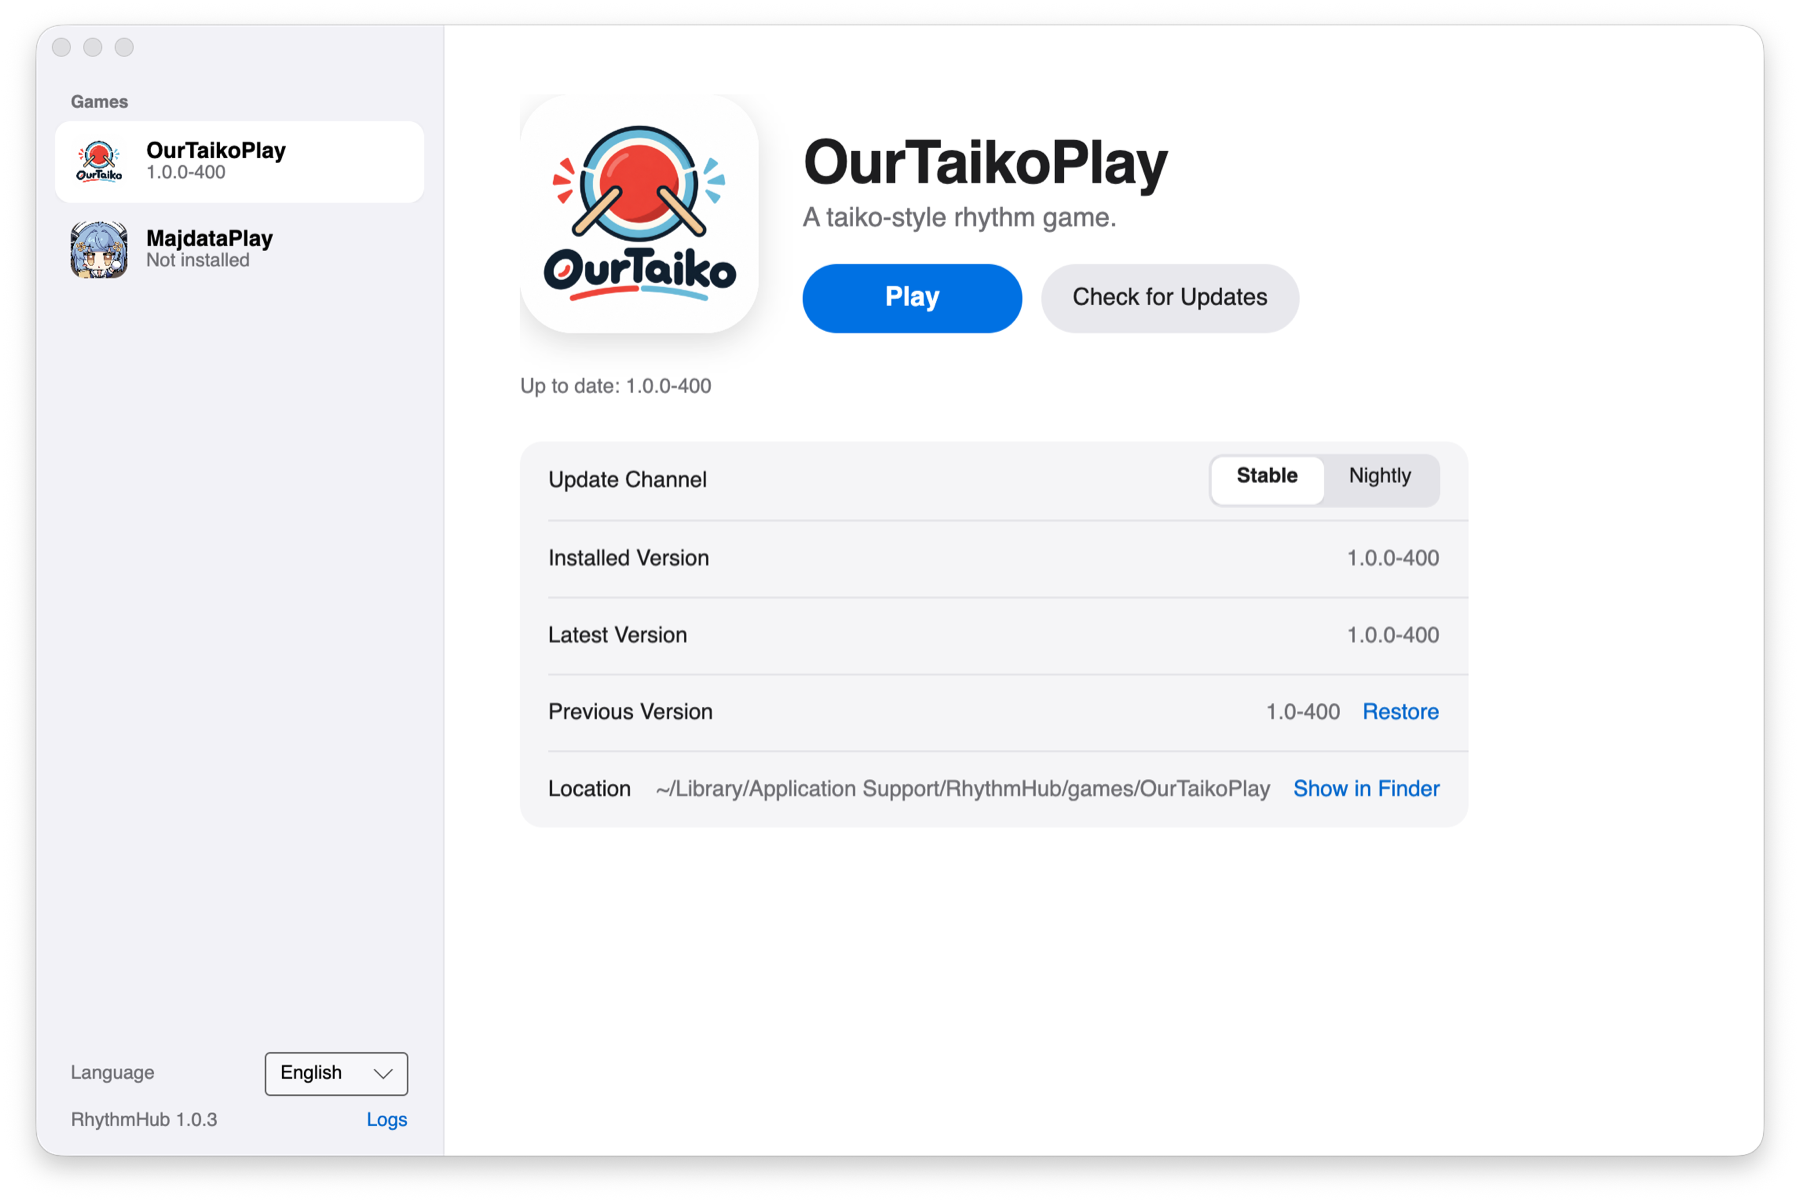
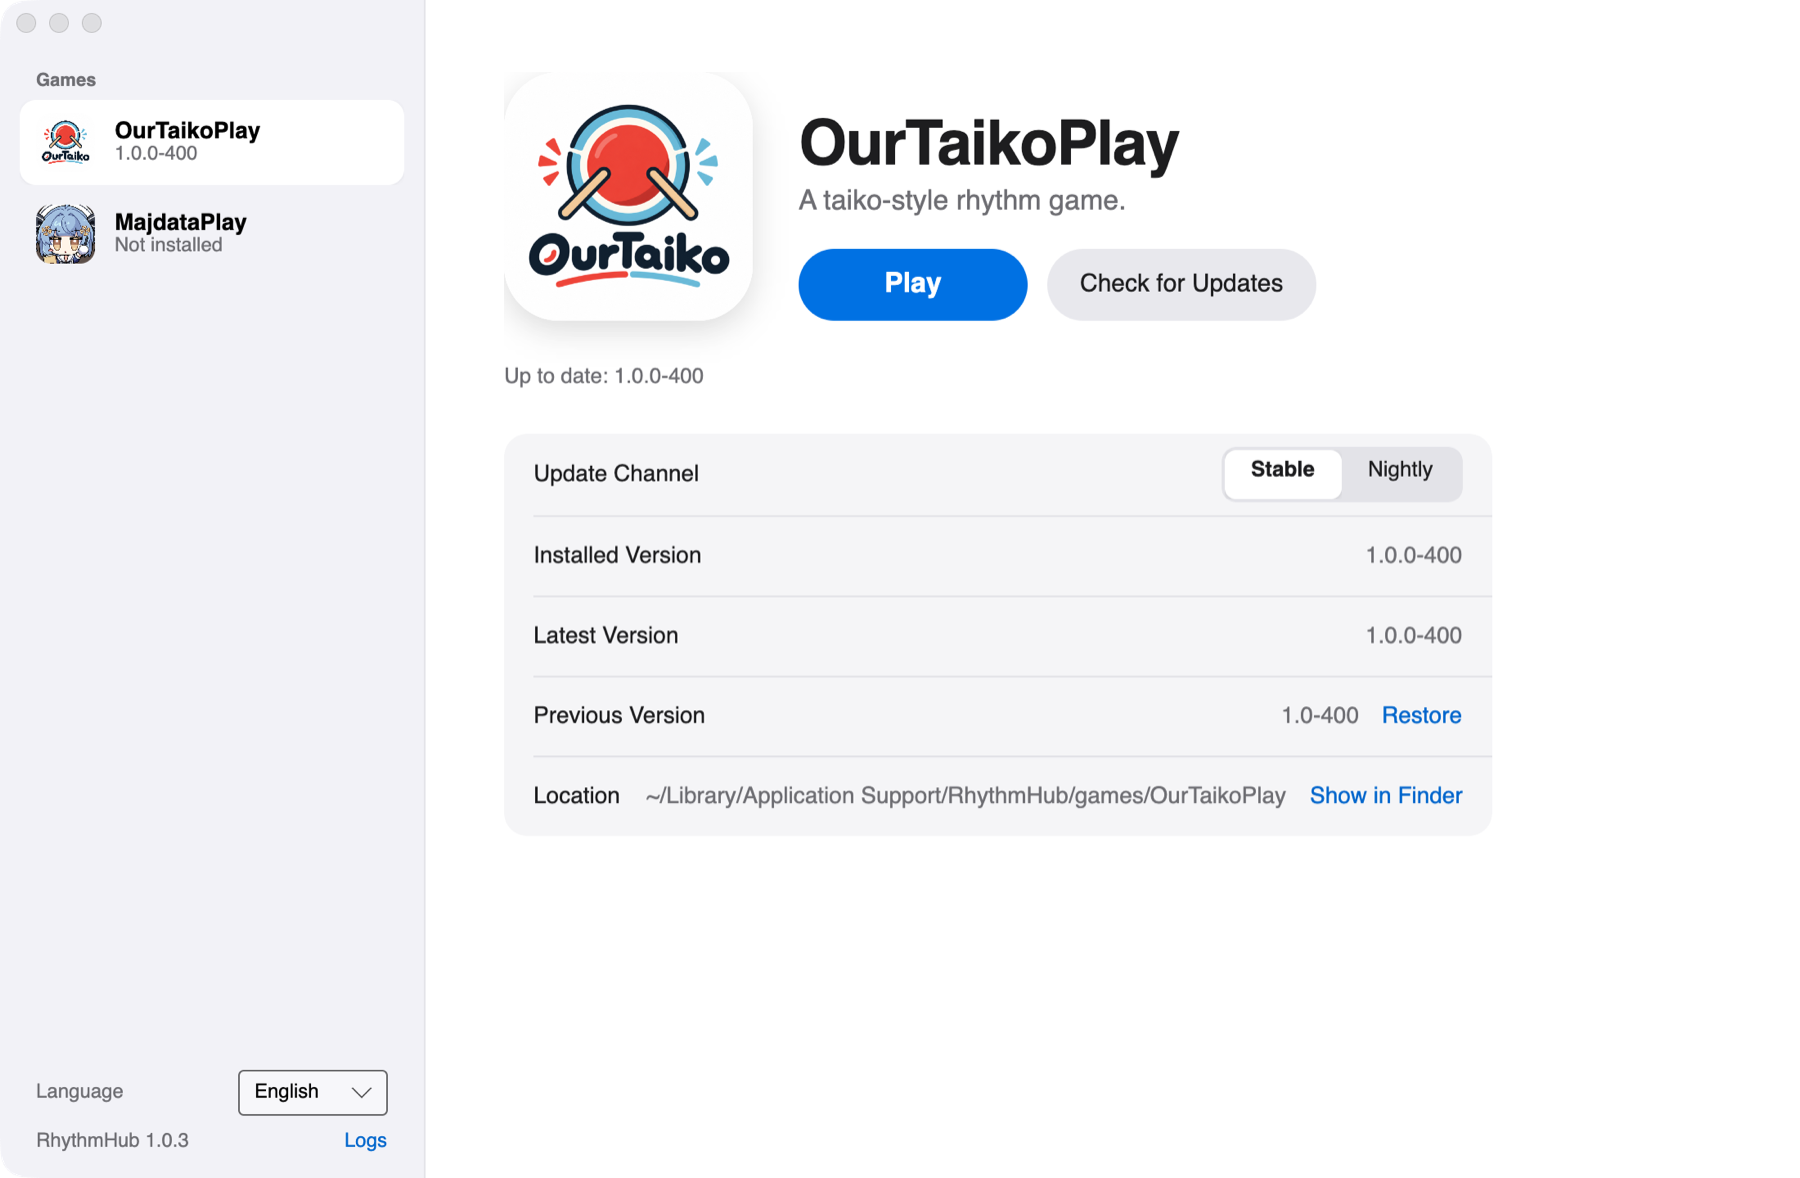
fix(site): same-size screenshots without window shadow; draw the shadow in CSS

diff --git a/site/ja/index.html b/site/ja/index.html
@@ -39,7 +39,7 @@
     <div class="wrap">
       <picture class="shot">
         <source srcset="../images/ja/app-dark.png" media="(prefers-color-scheme: dark)">
-        <img src="../images/ja/app-light.png" width="1800" height="1236"
+        <img src="../images/ja/app-light.png" width="1800" height="1178"
              alt="RhythmHub のウインドウ。左にゲーム一覧、右に OurTaikoPlay のアイコン、プレイボタン、アップデートチャンネルとバージョン情報">
       </picture>
     </div>
@@ -106,12 +106,12 @@
       </div>
       <div class="duo">
         <figure>
-          <img src="../images/ja/app-install.png" width="1800" height="1236" loading="lazy"
+          <img src="../images/ja/app-install.png" width="1800" height="1178" loading="lazy"
                alt="ライトモードの RhythmHub。MajdataPlay は未インストールで、インストールボタンと 587.3 MB のダウンロードサイズを表示">
           <figcaption>インストール前にダウンロードサイズを表示</figcaption>
         </figure>
         <figure>
-          <img src="../images/ja/app-dark.png" width="1800" height="1236" loading="lazy"
+          <img src="../images/ja/app-dark.png" width="1800" height="1178" loading="lazy"
                alt="ダークモードの RhythmHub。OurTaikoPlay の新しいナイトリーはダウンロード 87.1 MB、合計 279.9 MB">
           <figcaption>ダークモード</figcaption>
         </figure>

diff --git a/site/en/index.html b/site/en/index.html
@@ -39,7 +39,7 @@
     <div class="wrap">
       <picture class="shot">
         <source srcset="../images/en/app-dark.png" media="(prefers-color-scheme: dark)">
-        <img src="../images/en/app-light.png" width="1800" height="1236"
+        <img src="../images/en/app-light.png" width="1800" height="1178"
              alt="The RhythmHub window: the game list on the left; on the right, OurTaikoPlay’s icon, the Play button, the update channel and version details">
       </picture>
     </div>
@@ -106,12 +106,12 @@
       </div>
       <div class="duo">
         <figure>
-          <img src="../images/en/app-install.png" width="1800" height="1236" loading="lazy"
+          <img src="../images/en/app-install.png" width="1800" height="1178" loading="lazy"
                alt="RhythmHub in light mode: MajdataPlay is not installed yet, with an Install button and a 587.3 MB download size">
           <figcaption>See the download size before you install</figcaption>
         </figure>
         <figure>
-          <img src="../images/en/app-dark.png" width="1800" height="1236" loading="lazy"
+          <img src="../images/en/app-dark.png" width="1800" height="1178" loading="lazy"
                alt="RhythmHub in dark mode: a new OurTaikoPlay nightly needs an 87.1 MB download, 279.9 MB in total">
           <figcaption>Dark mode</figcaption>
         </figure>

diff --git a/site/index.html b/site/index.html
@@ -39,7 +39,7 @@
     <div class="wrap">
       <picture class="shot">
         <source srcset="images/zh/app-dark.png" media="(prefers-color-scheme: dark)">
-        <img src="images/zh/app-light.png" width="1800" height="1236"
+        <img src="images/zh/app-light.png" width="1800" height="1178"
              alt="RhythmHub 窗口：左侧是游戏列表，右侧显示 OurTaikoPlay 的图标、开始游戏按钮、更新频道和版本信息">
       </picture>
     </div>
@@ -106,12 +106,12 @@
       </div>
       <div class="duo">
         <figure>
-          <img src="images/zh/app-install.png" width="1800" height="1236" loading="lazy"
+          <img src="images/zh/app-install.png" width="1800" height="1178" loading="lazy"
                alt="浅色模式下的 RhythmHub：MajdataPlay 尚未安装，显示安装按钮和 587.3 MB 的下载大小">
           <figcaption>安装前显示下载大小</figcaption>
         </figure>
         <figure>
-          <img src="images/zh/app-dark.png" width="1800" height="1236" loading="lazy"
+          <img src="images/zh/app-dark.png" width="1800" height="1178" loading="lazy"
                alt="深色模式下的 RhythmHub：OurTaikoPlay 有新的每日构建，需下载 87.1 MB，完整大小 279.9 MB">
           <figcaption>深色模式</figcaption>
         </figure>

diff --git a/site/style.css b/site/style.css
@@ -183,3 +183,14 @@ h1, h2, .lead, .sub { text-wrap: balance; }
 @media (max-width: 640px) {
   .lang-fab { right: 16px; bottom: 16px; }
 }
+
+/* Screenshots are captured without the window shadow; draw one here so every image matches. */
+.shot img, .duo img {
+  filter: drop-shadow(0 18px 36px rgba(0, 0, 0, 0.18)) drop-shadow(0 0 0.5px rgba(0, 0, 0, 0.35));
+}
+.duo img { margin: 12px 0 4px; }
+@media (prefers-color-scheme: dark) {
+  .shot img, .duo img {
+    filter: drop-shadow(0 18px 36px rgba(0, 0, 0, 0.6)) drop-shadow(0 0 0.5px rgba(255, 255, 255, 0.45));
+  }
+}
